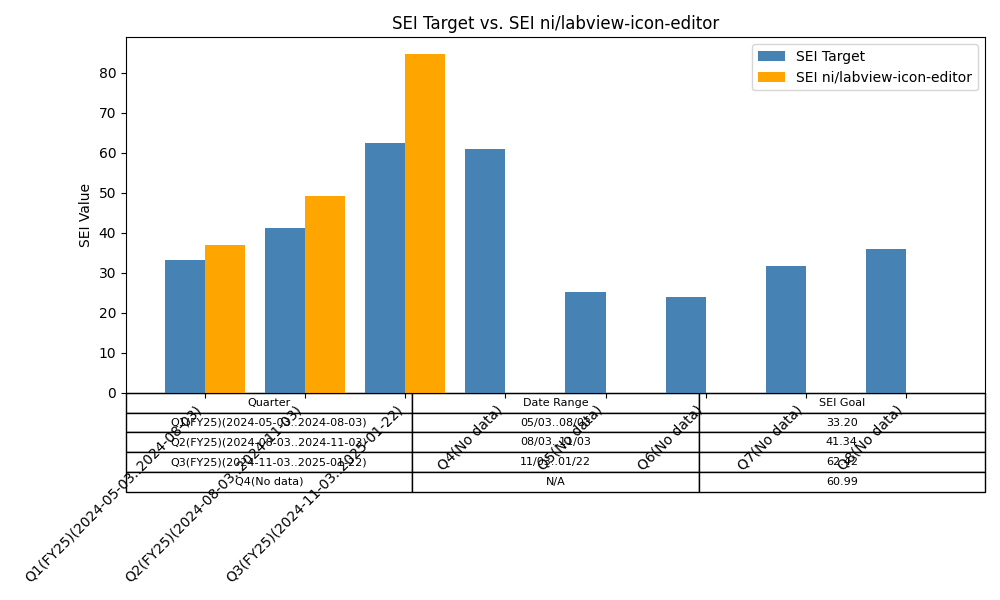
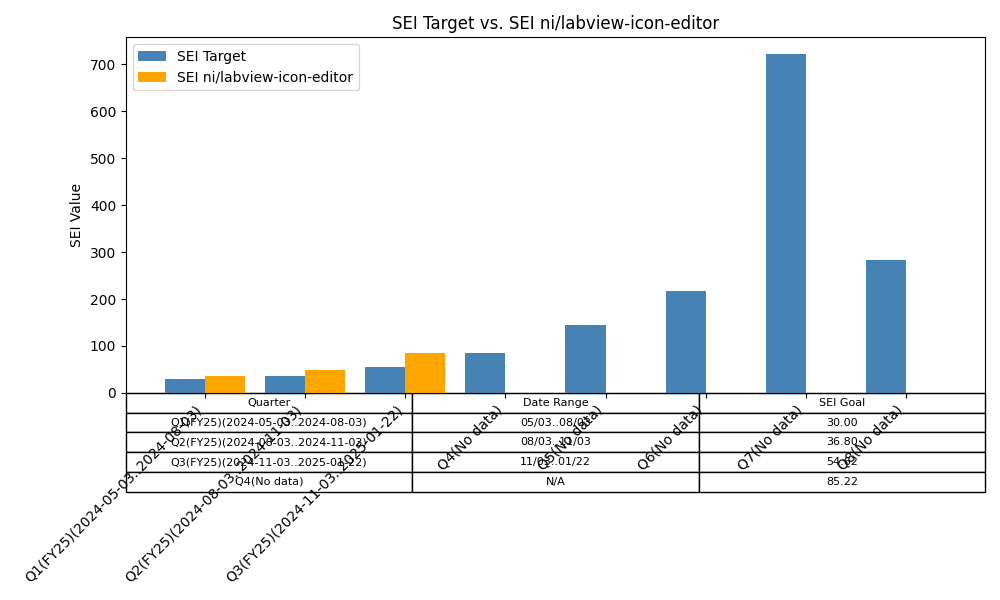
I added back dotnetcore. more data was captured, so the log shows more data. (also i am capturing 8 quarterS)

diff --git a/KPIs/python/kpi_analytics/main.py b/KPIs/python/kpi_analytics/main.py
@@ -359,7 +359,8 @@ def main():
     from config import get_scaling_repo, get_num_fiscal_quarters
     repos= [
         "tensorflow/tensorflow",
-        "facebook/react"
+        "facebook/react", 
+        "dotnet/core"
     ]
     scaling_repo= get_scaling_repo()
     if not scaling_repo:
